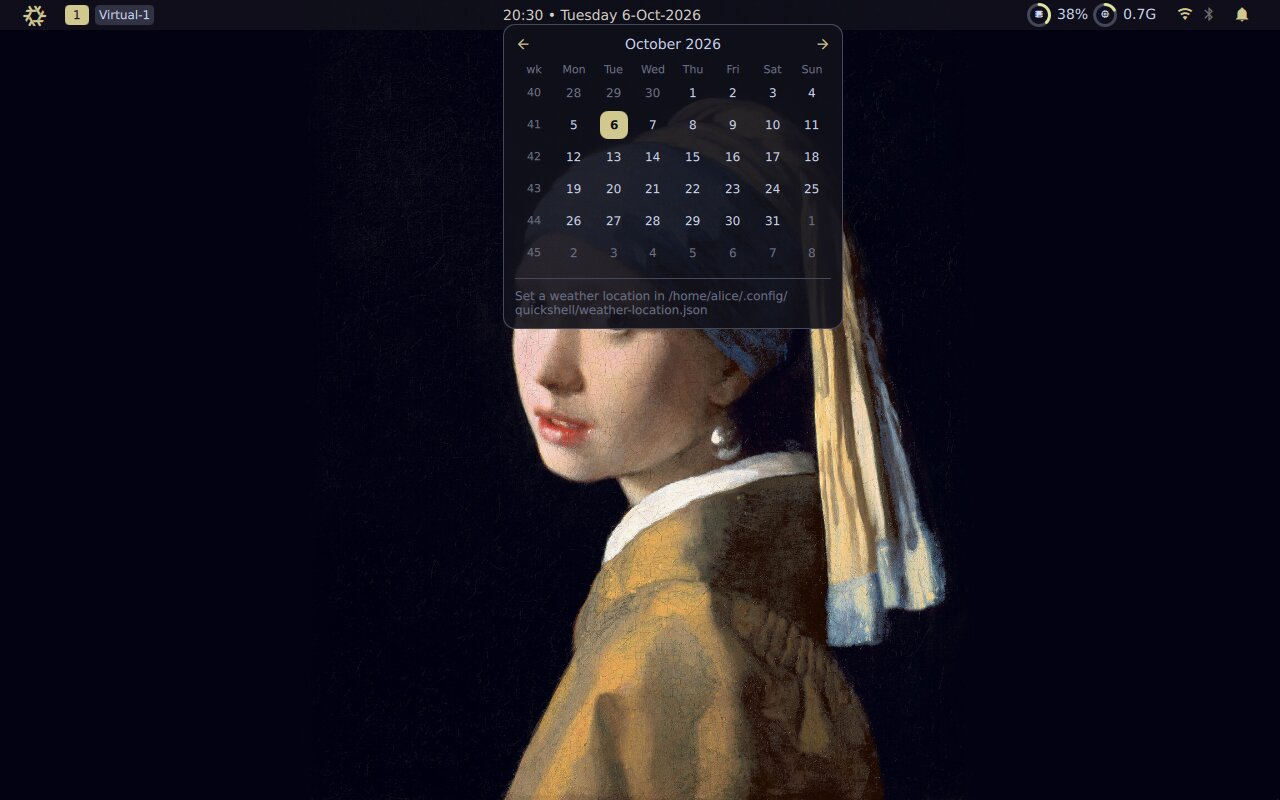
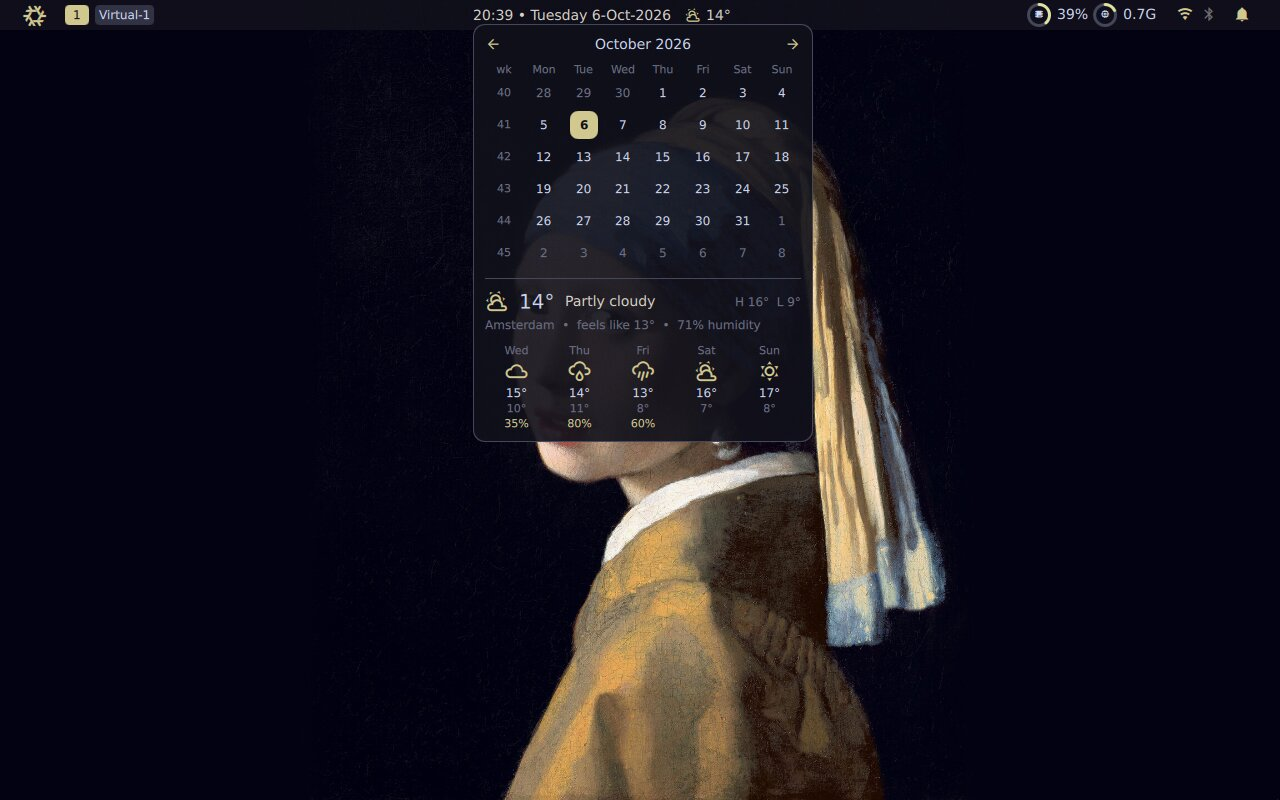
Show the weather in the README screenshots, and notice a late weather file
The screenshot VM now answers for api.open-meteo.com itself (a local HTTPS
server with a made-up forecast), so the calendar and bar show the weather.

Doing that showed that a weather-location.json created after the shell started,
in a ~/.config/quickshell folder that did not exist yet, was never noticed: a
file watch cannot see a folder that is not there. Until a place is known, the
file is now read again every 10 seconds.

Changed region(s): [[0.375, 0.0, 0.6562, 0.5625]]

diff --git a/singletons/WeatherService.qml b/singletons/WeatherService.qml
@@ -27,6 +27,7 @@ Singleton {
     readonly property bool configured: Number.isFinite(latitude) && Number.isFinite(longitude)
 
     FileView {
+        id: locationFile
         path: root.locationPath
         // reading only: nothing here ever writes to this file
         printErrors: false
@@ -41,6 +42,16 @@ Singleton {
             property real longitude: NaN
             property string locationName: ""
         }
+    }
+
+    // A file watch cannot see a file in a folder that does not exist yet (a fresh install has
+    // no ~/.config/quickshell), so until a place is known the file is read again every 10
+    // seconds. This stops once the place is found.
+    Timer {
+        interval: 10000
+        repeat: true
+        running: !root.configured
+        onTriggered: locationFile.reload()
     }
 
     // ----------------------------------------------------------------- weather

diff --git a/README.md b/README.md
@@ -61,7 +61,7 @@ Three of the nine themes (Gruvbox, Nord and the light Catppuccin Latte), picked 
 | ![Gruvbox](docs/screenshots/theme-gruvbox.jpg) | ![Nord](docs/screenshots/theme-nord.jpg) | ![Catppuccin Latte](docs/screenshots/theme-latte.jpg) |
 
 The pictures are taken in a virtual machine by `nix build .#screenshots`, so they show no
-personal data; the weather says where to put its location file because the machine has no
+personal data. The weather is a made-up forecast served inside the machine, which has no
 internet.
 
 ## Requirements
